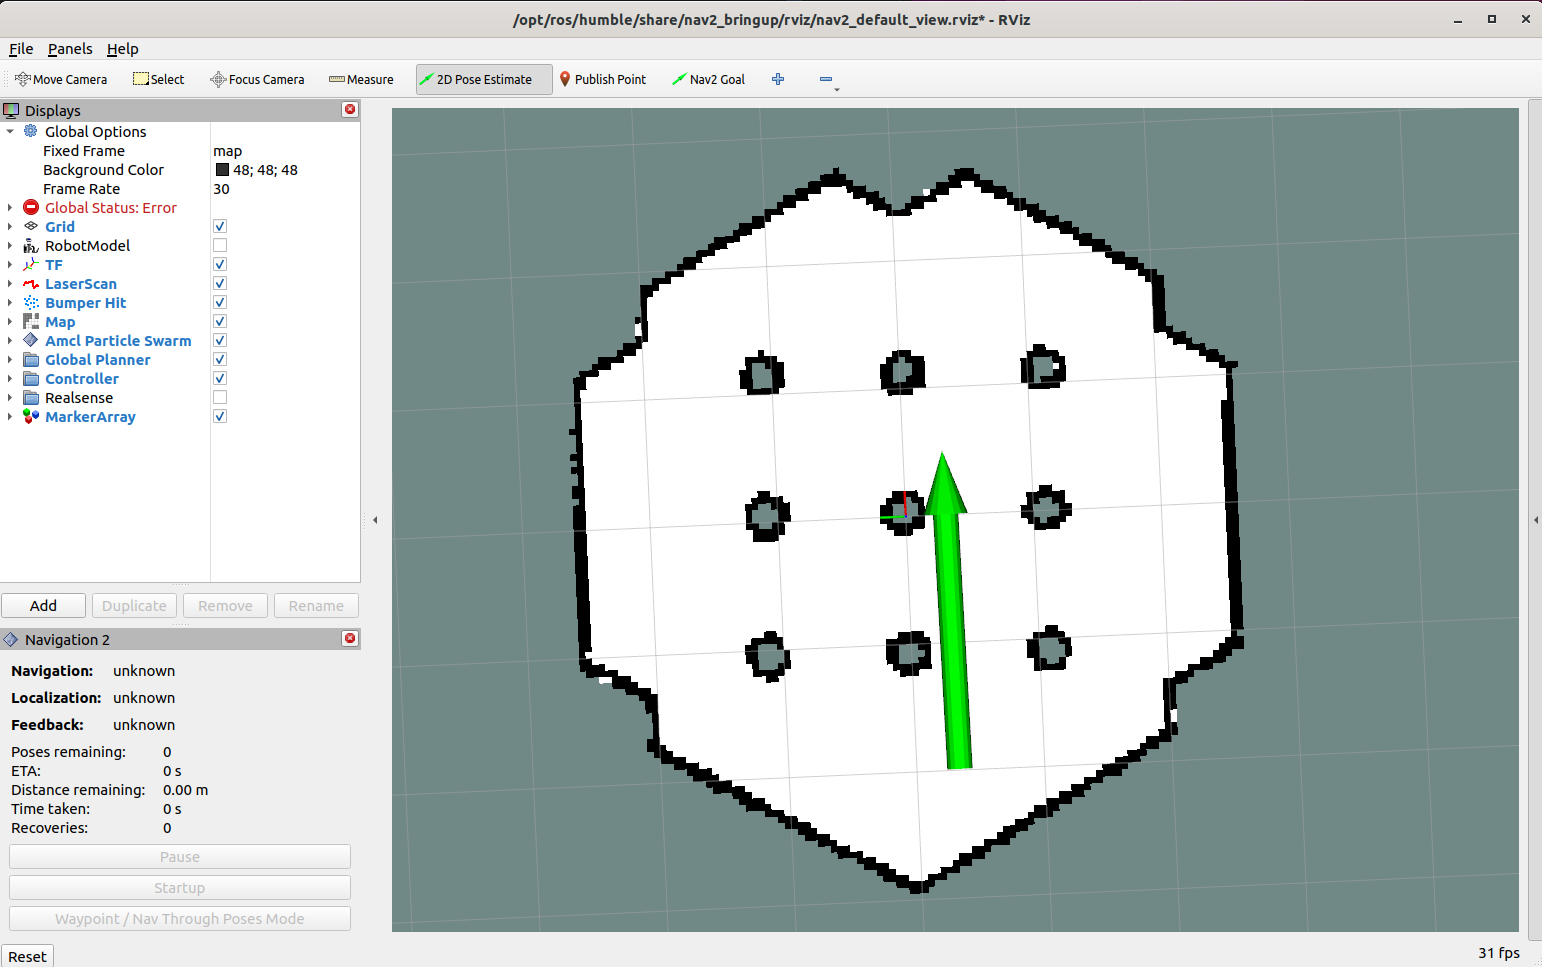
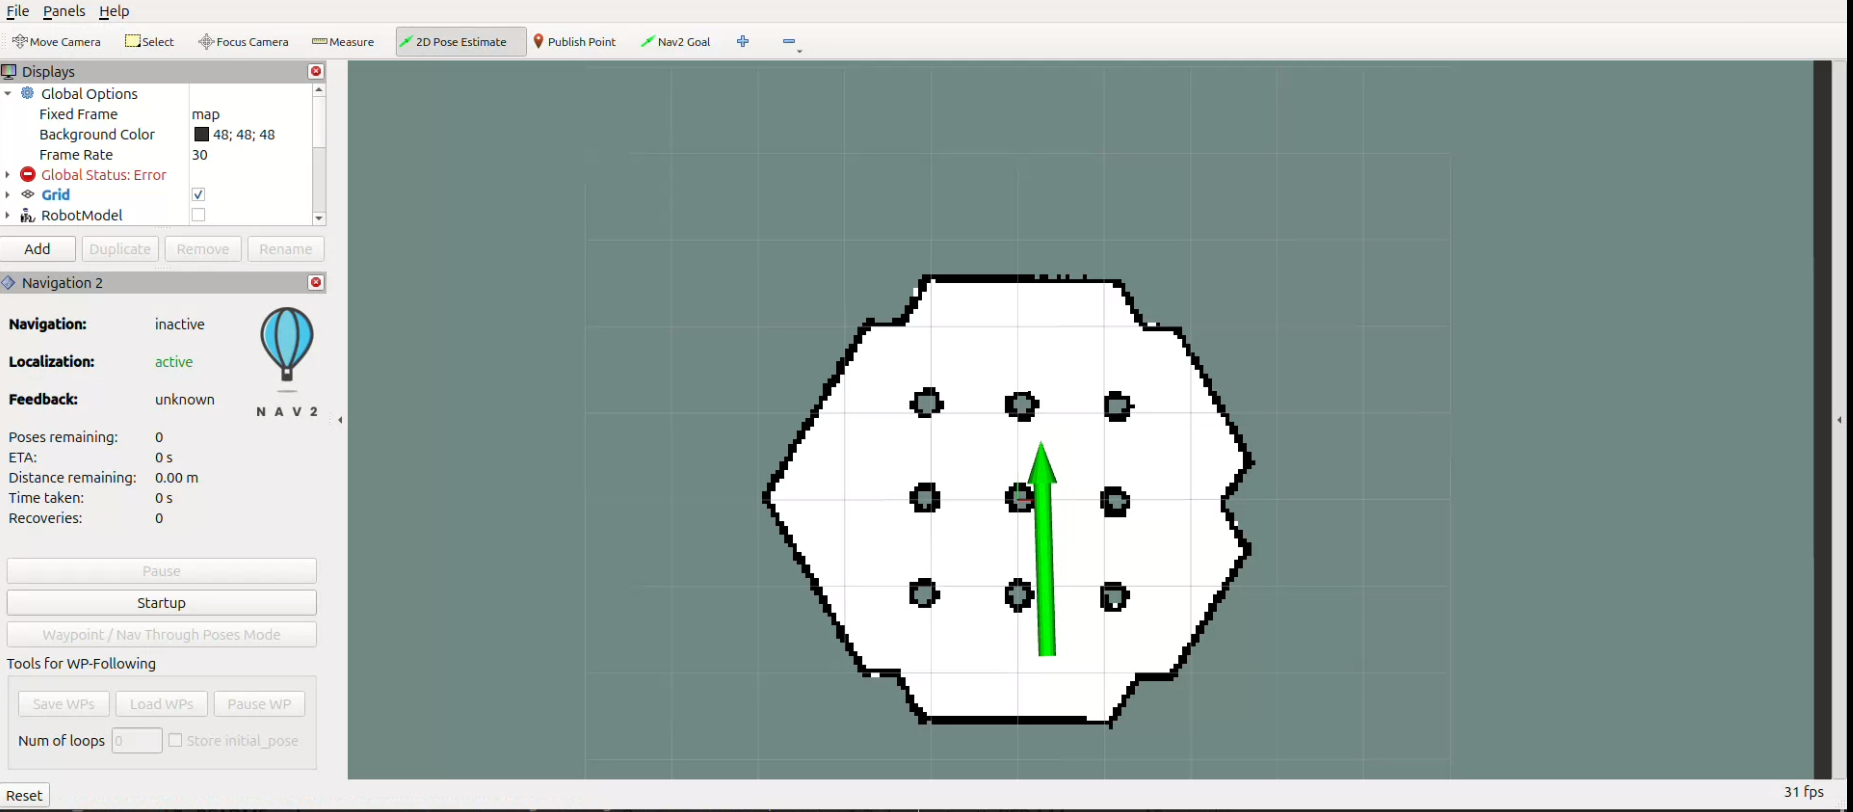
Modify getting started and about

diff --git a/getting_started/index.rst b/getting_started/index.rst
@@ -14,29 +14,31 @@ This section provides a step-by-step approach for setting up and running the MOC
 
 1. Clone the Repositories
 -------------------------
-Begin by cloning the necessary repositories into your workspace:
+Begin by cloning the necessary repositories into your ``src`` folder inside your workspace (e.g., ``mocap4r2_ws``):
 
 .. code-block:: console
 
-    mocap4r2_ws$ git clone https://github.com/MOCAP4ROS2-Project/mocap4ros2_gazebo.git
-    mocap4r2_ws$ git clone https://github.com/MOCAP4ROS2-Project/mocap4r2.git
+    git clone https://github.com/MOCAP4ROS2-Project/mocap4ros2_gazebo.git
 
-2. Install Dependencies
+1. Install Dependencies
 -----------------------
 To install all required dependencies, use the `.repos` file provided:
 
 .. code-block:: console
 
-    mocap4r2_ws$ vcs import < mocap4r2/dependency_repos.repos
-    mocap4r2_ws$ rosdep install --from-paths src --ignore-src -y
+    vcs import < mocap4ros2_gazebo/dependency_repos.repos
 
-3. Build the Workspace
+1. Build the Workspace
 ----------------------
 Once the repositories and dependencies are in place, build the workspace using `colcon`:
 
 .. code-block:: console
 
-    mocap4r2_ws$ colcon build --symlink-install
+        cd ..
+
+.. code-block:: console
+
+    colcon build --symlink-install
 
 4. Launch the Simulator
 -----------------------
@@ -44,8 +46,8 @@ Source your workspace and launch the TurtleBot3 simulation with the following co
 
 .. code-block:: console
 
-    mocap4r2_ws$ source install/setup.bash
-    mocap4r2_ws$ ros2 launch mocap4r2_gz_plugin tb3_simulation_launch.py
+    source install/setup.bash
+    ros2 launch mocap4r2_gz_plugin tb3_simulation_launch.py
 
 .. |image1| image:: images/getting_started_4a.png
    :width: 400px
@@ -63,20 +65,20 @@ To visualize the simulation in Gazebo, execute the following command:
 
 .. code-block:: console
 
-    mocap4r2_ws$ gz sim
+    gz sim
 
 .. image:: images/getting_started_4c.png
    :width: 500px
    :align: middle
 
-5. Run RQT Gui and Load the MocapControl Plugin
+1. Run RQT Gui and Load the MocapControl Plugin
 ----------------------------------------------
 
 Execute the following command to run the RQT GUI and load the MocapControl plugin:
 
 .. code-block:: console
 
-    mocap4ros2_ws$ ros2 run rqt_gui rqt_gui --force-discover
+    ros2 run rqt_gui rqt_gui --force-discover
 
 .. |image4| image:: images/getting_started_5.png
    :width: 400px
@@ -108,12 +110,5 @@ To run the ground truth program, use the following command:
 
 Check in Rviz how a new frame, `base_footprint_gt` exists and is the real robot position. Move the robot and see how this TF track the robot position.
 
-.. |image5| image:: images/getting_started_7.png
-   :width: 500px
-   :align: middle
-
-+----------+
-| |image5| +
-+----------+
 
 Press the button "Stop" in MocapControl to stop the gazebo mocap.

diff --git a/about/index.rst b/about/index.rst
@@ -30,12 +30,15 @@ Our current leadership team includes:
 +----------------------+----------------------------+--------------------+--------------+
 | Manuel Fernández     | University of Málaga       | MFernandezCarmona_ | Dev team     |
 +----------------------+----------------------------+--------------------+--------------+
+| Juan C. Manzanares   | Rey Juan Carlos University | juancams           | Dev team     |
++----------------------+----------------------------+--------------------+--------------+
 | Alberto García       | Rey Juan Carlos University | aaggj_             | Dev team     |
 +----------------------+----------------------------+--------------------+--------------+
 .. _fmrico: https://github.com/fmrico
 .. _jmguerreroh: https://github.com/jmguerreroh
 .. _MFernandezCarmona: https://github.com/MFernandezCarmona
 .. _aaggj: https://github.com/aaggj
+.. _juancams: https://github.com/juancams
 
 Contact
 *******
